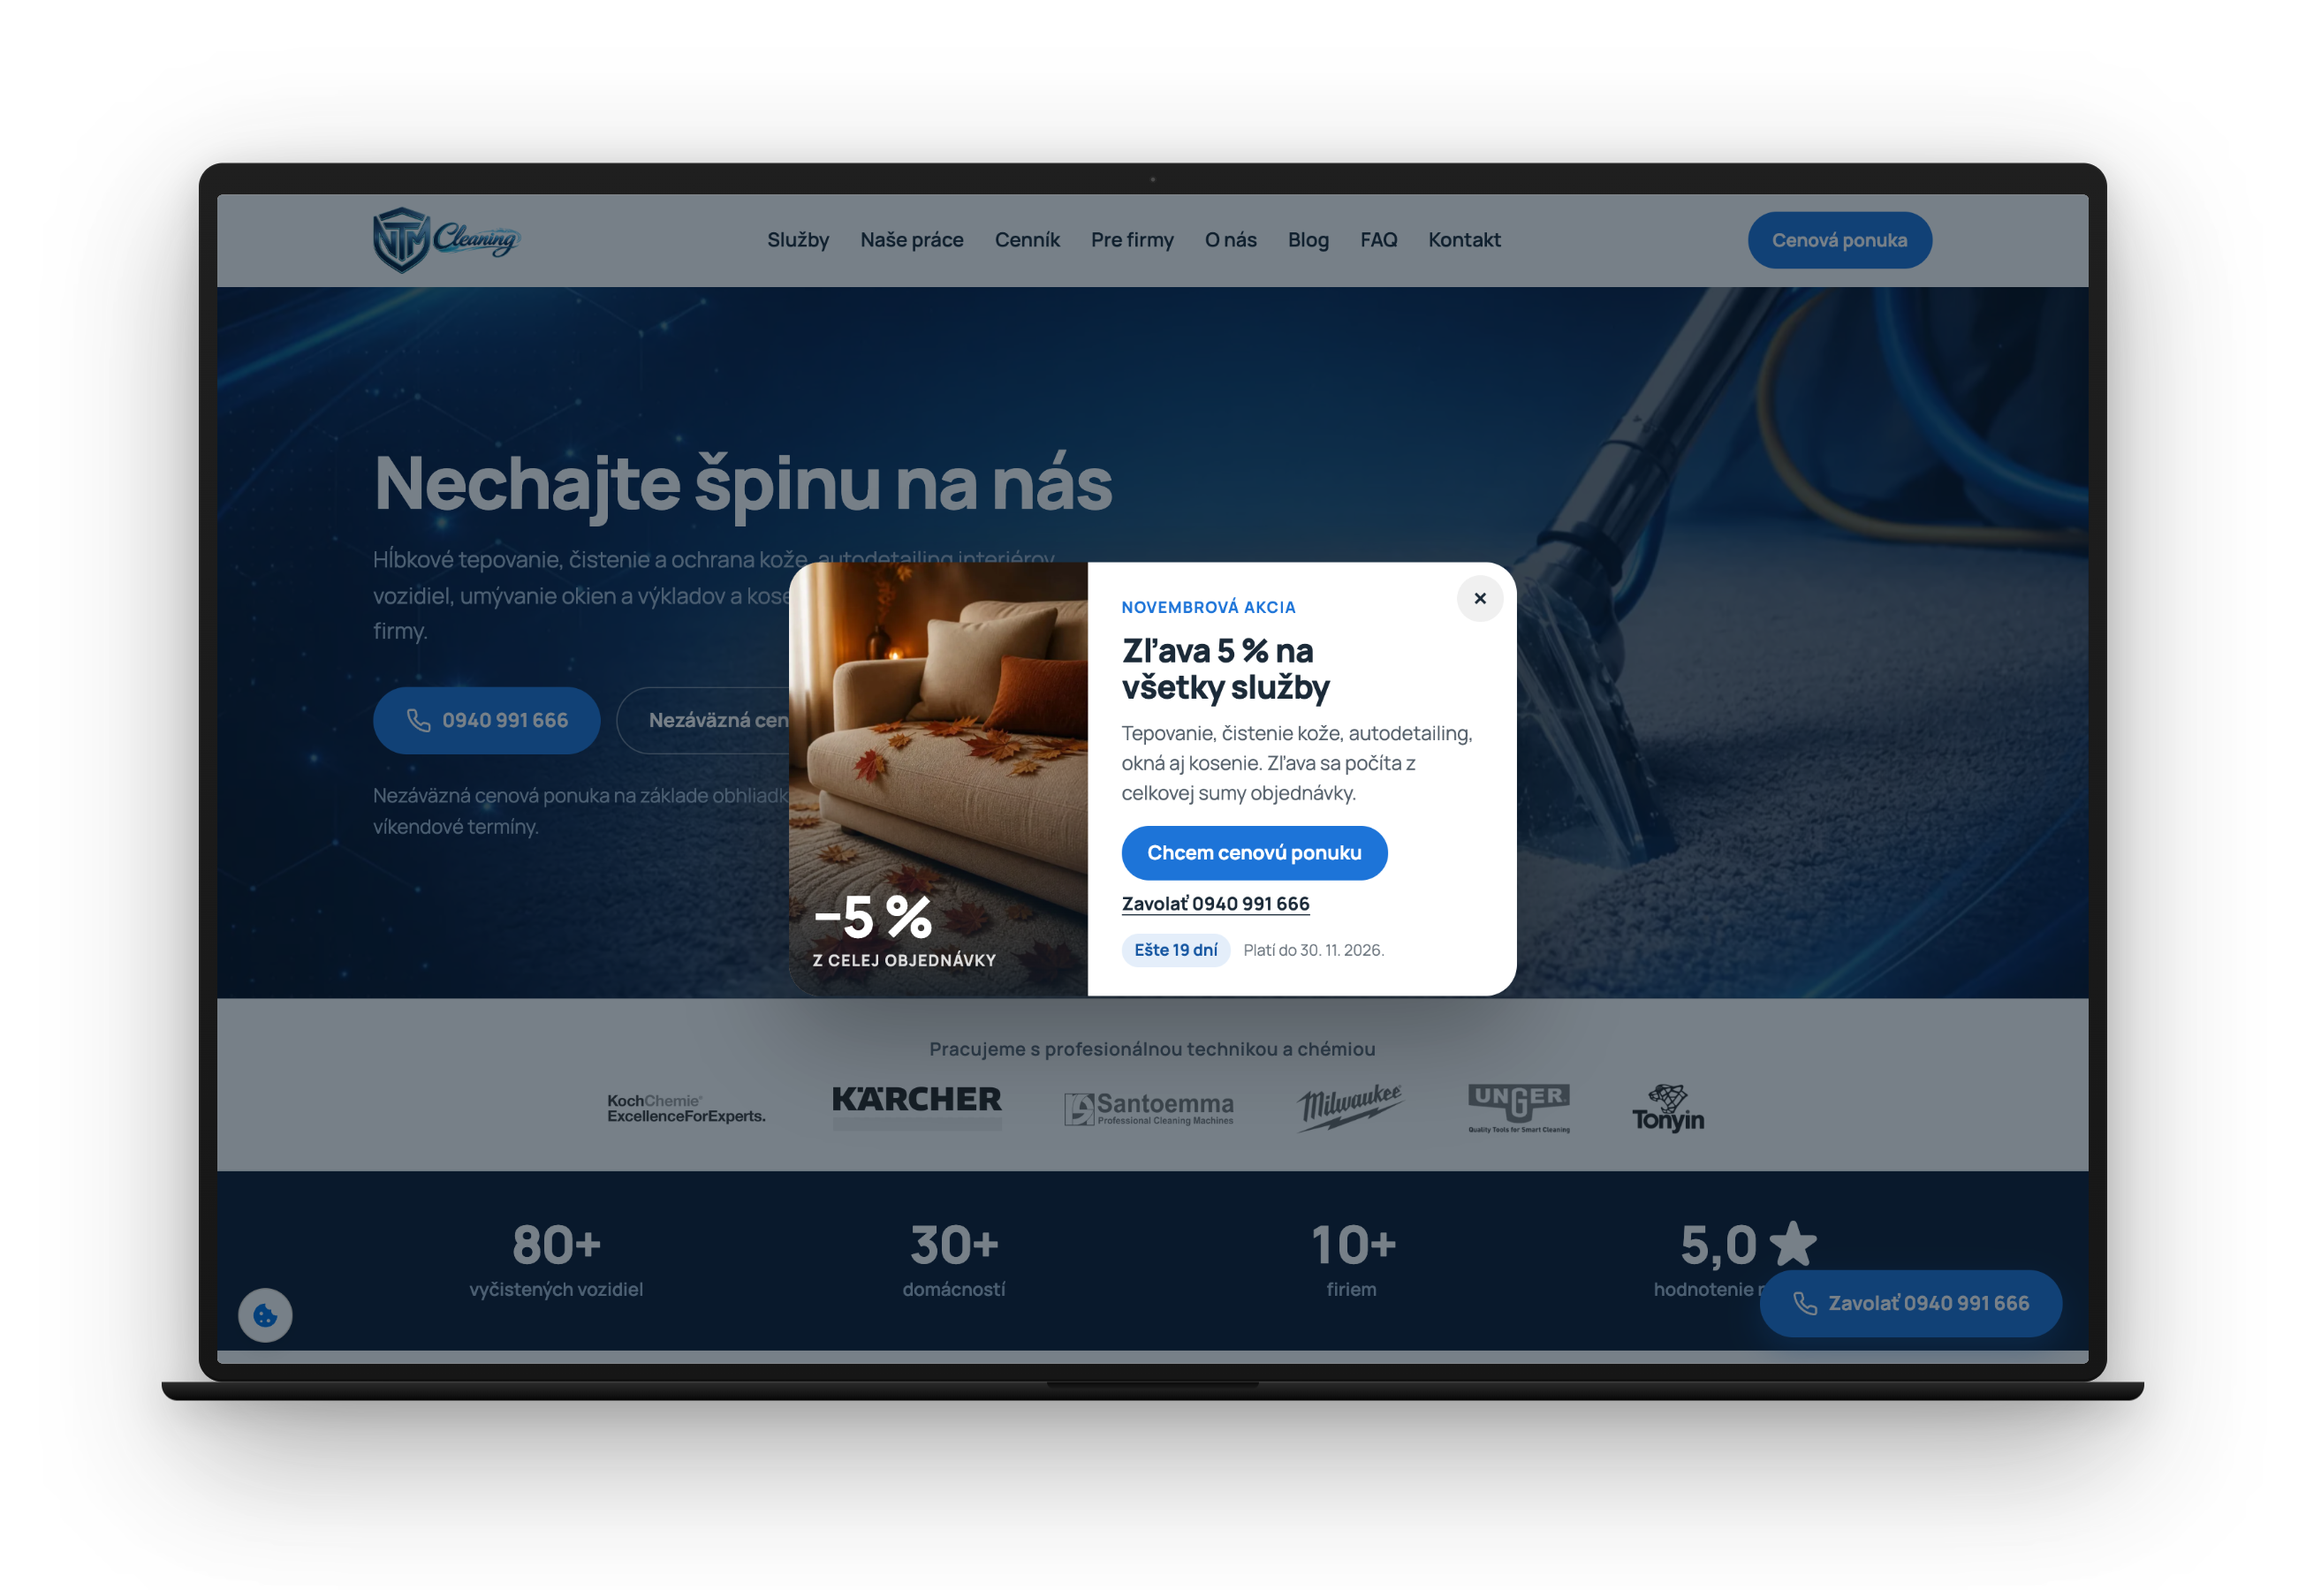
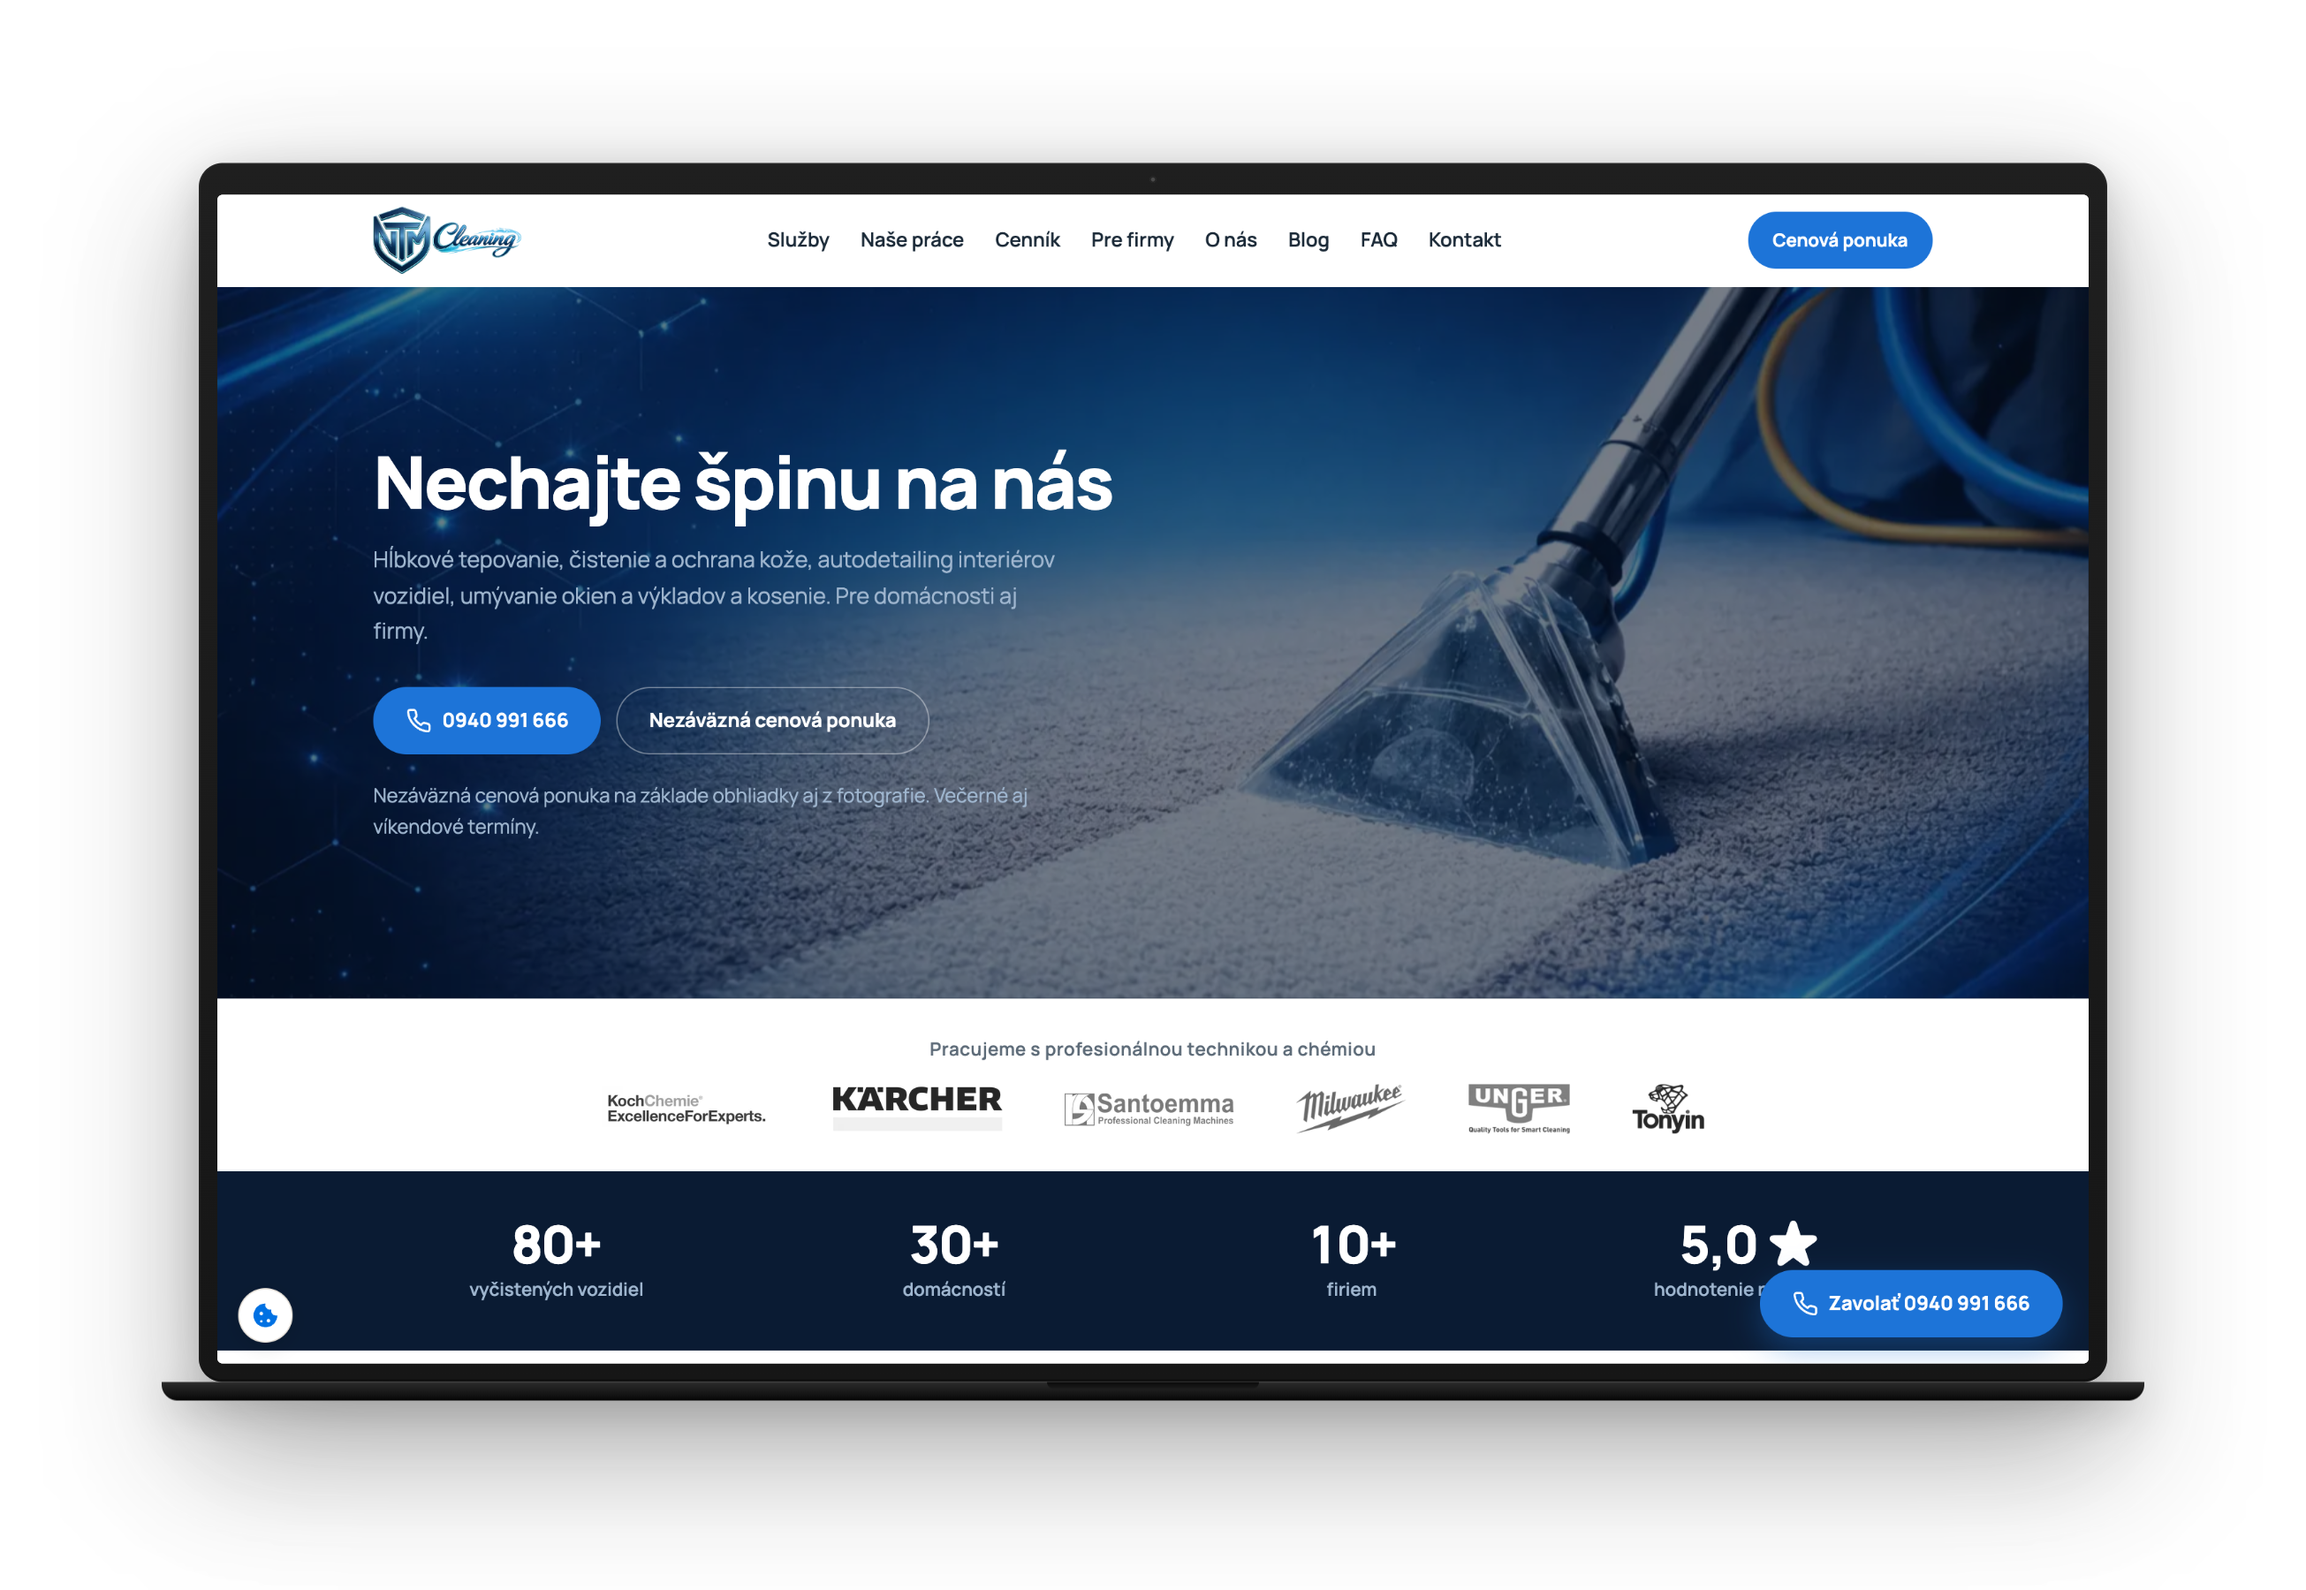
NTM Cleaning: nový text, čisté zábery a radenie projektov podľa roka

diff --git a/src/utils/sortProjects.test.ts b/src/utils/sortProjects.test.ts
@@ -1,0 +1,13 @@
+import { describe, it, expect } from 'vitest';
+import { compareProjects } from './sortProjects';
+
+const p = (year: string, order: number) => ({ data: { year, order } });
+
+describe('compareProjects', () => {
+  it('radí najnovší rok prvý', () => {
+    expect([p('2024', 1), p('2026', 9), p('2025', 3)].sort(compareProjects).map((x) => x.data.year)).toEqual(['2026', '2025', '2024']);
+  });
+  it('v rámci roka radí podľa order', () => {
+    expect([p('2026', 6), p('2026', 0), p('2026', 2)].sort(compareProjects).map((x) => x.data.order)).toEqual([0, 2, 6]);
+  });
+});

diff --git a/src/utils/sortProjects.ts b/src/utils/sortProjects.ts
@@ -1,0 +1,13 @@
+/**
+ * Poradie projektov v zoznamoch a pri „ďalší projekt“: najnovší rok prvý,
+ * v rámci roka podľa `order` (ručné poradie). Rok sa berie z `year`.
+ */
+export function compareProjects(
+  a: { data: { year: string; order: number } },
+  b: { data: { year: string; order: number } },
+): number {
+  const ya = parseInt(a.data.year, 10) || 0;
+  const yb = parseInt(b.data.year, 10) || 0;
+  if (ya !== yb) return yb - ya;
+  return a.data.order - b.data.order;
+}

diff --git a/src/content/projects/en/ntm-cleaning.md b/src/content/projects/en/ntm-cleaning.md
@@ -3,7 +3,7 @@ name: "ntmcleaning.sk"
 kind: "Custom website · WordPress"
 year: "2026"
 role: "WordPress Developer"
-duration: "2 weeks"
+duration: "1 week"
 client: "NTM Cleaning"
 url: "ntmcleaning.sk"
 accent: accent2
@@ -26,17 +26,34 @@ stack:
   - "GA4"
 heroCaption: "homepage · phone and quote request within reach"
 mobileCaption: "homepage on mobile"
-secondaryCaption: "services, pricing and references on one page"
+secondaryCaption: "old and new website: before and after"
 ---
+
+### Starting point
 
 NTM Cleaning does deep cleaning of upholstery and carpets, leather care and interior car detailing at the customer's location across four regions of western Slovakia. The old website ran on a ready-made theme with the Elementor page builder, and on mobile its main content appeared after more than eleven seconds.
 
-The new site is built on a custom WordPress theme without a page builder. Services, pricing, projects, counters, FAQ and contact sit on one page in a logical order. Subpages that only repeated the same text were dropped and the old URLs redirected, so nobody lands on a 404. The phone number and the free quote request are always within reach, and the form is protected by Cloudflare Turnstile. Business data for Google, a sitemap, Search Console and an llms.txt file were set up from day one; a submitted form is tracked in GA4.
+### What was done
 
-I measured both versions with Google PageSpeed Insights on 12 November 2026. The old site is no longer public, so I ran it from a backup on a temporary address with its original database, no content changes and indexing disabled, and measured it three times (median shown; one outlier of 29.8 s was left out of the comparison). On mobile, performance rose from 60 to 99, main content from 11.4 to 1.7 s and layout shift from 0.132 to 0. On desktop the score is 100 versus 72. Accessibility rose from 85 to 100, and the new site also scores 100 for SEO and best practices. These are lab numbers; data from real visitors will come from Search Console.
+- A custom WordPress theme without a page builder.
+- Services, pricing, projects, counters, FAQ and contact on one page in a logical order; subpages that only repeated text were dropped and the old URLs redirected.
+- Phone number and free quote request always within reach; the form is protected by Cloudflare Turnstile and each submission is tracked in GA4.
+- Business data for Google, a sitemap, Search Console and an llms.txt file set up from day one.
+- A complete set of site icons: ICO, PNG in three sizes, apple-touch-icon and a web manifest.
 
-The post-launch check showed that the favicon existed only as WebP (iOS does not use it as an icon) and the manifest was missing. I added all icon types: ICO, PNG in three sizes, apple-touch-icon and site.webmanifest.
+### Result
 
-"My website has been rebuilt from the ground up: clear and modern. I am thrilled with Filip's skill, speed, patience and above all his humanity." — Nikolas Kollár, NTM Cleaning (Google review)
+Comparison in Google PageSpeed Insights, median of three runs per site:
 
-<!-- Add 30- and 90-day results (7 Dec 2026, 3 Feb 2027): form and phone enquiries, Search Console impressions and clicks. -->
+- mobile performance: 60 → 99
+- largest contentful paint on mobile: 11.4 s → 1.7 s
+- layout shift (CLS) on mobile: 0.132 → 0
+- desktop performance: 72 → 100
+- accessibility: 85 → 100
+- SEO and best practices of the new site: 100
+
+These are lab numbers; I will add data from real visitors once Search Console has collected it.
+
+### What the client says
+
+“My website has been rebuilt from the ground up: clear and modern. I am thrilled with Filip’s skill, speed, patience and above all his humanity.” — Nikolas Kollár, NTM Cleaning (Google review)

diff --git a/src/content/projects/sk/ntm-cleaning.md b/src/content/projects/sk/ntm-cleaning.md
@@ -3,7 +3,7 @@ name: "ntmcleaning.sk"
 kind: "Nový web na mieru · WordPress"
 year: "2026"
 role: "WordPress Developer"
-duration: "2 týždne"
+duration: "1 týždeň"
 client: "NTM Cleaning"
 url: "ntmcleaning.sk"
 accent: accent2
@@ -26,17 +26,34 @@ stack:
   - "GA4"
 heroCaption: "homepage · telefón a cenová ponuka na dosah"
 mobileCaption: "úvod na mobile"
-secondaryCaption: "služby, cenník a referencie na jednej stránke"
+secondaryCaption: "starý a nový web: pred a po"
 ---
+
+### Východisko
 
 NTM Cleaning robí hĺbkové tepovanie sedačiek a kobercov, čistenie kože a autodetailing interiéru priamo u zákazníka v Trnavskom, Bratislavskom, Trenčianskom a Nitrianskom kraji. Starý web bežal na hotovej téme s page builderom Elementor a na mobile sa hlavný obsah zobrazil po vyše jedenástich sekundách.
 
-Nový web je postavený na vlastnej WordPress téme bez buildera. Služby, cenník, realizácie, počítadlá, časté otázky a kontakt sú na jednej stránke v logickom poradí. Podstránky služieb, ktoré len opakovali ten istý text, odpadli a staré adresy sa presmerovali, aby nikto nenarazil na chybu 404. Telefón a nezáväzná cenová ponuka sú stále na dosah, formulár chráni Cloudflare Turnstile. Údaje o firme pre Google, sitemap, Search Console a súbor llms.txt boli nastavené od prvého dňa; odoslaný formulár sa meria v GA4.
+### Čo sa urobilo
 
-Obe verzie som 12. 11. 2026 meral v Google PageSpeed Insights. Starý web už verejne nebeží, preto som ho spustil zo zálohy na dočasnej adrese s pôvodnou databázou, bez zásahov do obsahu a s vypnutým indexovaním, a meral som ho trikrát (uvádzam medián; jeden výkyv na 29,8 s som do porovnania nezahrnul). Na mobile sa výkon zlepšil zo 60 na 99 bodov, hlavný obsah z 11,4 na 1,7 s a poskakovanie obsahu z 0,132 na 0. Na desktope vyšlo 100 bodov oproti 72. Dostupnosť stúpla zo 85 na 100 a nový web má 100 bodov aj v SEO a osvedčených postupoch. Sú to laboratórne čísla; dáta od skutočných návštevníkov prídu zo Search Console.
+- Vlastná WordPress téma bez page buildera.
+- Služby, cenník, realizácie, počítadlá, časté otázky a kontakt na jednej stránke v logickom poradí; podstránky, ktoré len opakovali text, odpadli a staré adresy sa presmerovali.
+- Telefón a nezáväzná cenová ponuka stále na dosah; formulár chráni Cloudflare Turnstile a jeho odoslanie sa meria v GA4.
+- Údaje o firme pre Google, sitemap, Search Console a súbor llms.txt nastavené od prvého dňa.
+- Kompletná sada ikon webu: ICO, PNG v troch veľkostiach, apple-touch-icon a webmanifest.
 
-Pri kontrole po spustení sa ukázalo, že favicon existoval len ako WebP (iOS ho ako ikonu nepoužije) a chýbal manifest. Doplnil som všetky typy ikon: ICO, PNG v troch veľkostiach, apple-touch-icon a site.webmanifest.
+### Výsledok
+
+Porovnanie v Google PageSpeed Insights, medián z troch meraní každého webu:
+
+- výkon na mobile: 60 → 99
+- hlavný obsah (LCP) na mobile: 11,4 s → 1,7 s
+- poskakovanie obsahu (CLS) na mobile: 0,132 → 0
+- výkon na desktope: 72 → 100
+- dostupnosť: 85 → 100
+- SEO a osvedčené postupy nového webu: 100
+
+Sú to laboratórne čísla; dáta od skutočných návštevníkov doplním, keď ich nazbiera Search Console.
+
+### Čo hovorí klient
 
 „Môj web je od základov prekopaný, prehľadný a moderný. Som nadšený z Filipovej šikovnosti, rýchlosti, trpezlivosti a hlavne ľudskosti.“ — Nikolas Kollár, NTM Cleaning (recenzia na Google)
-
-<!-- Výsledky doplniť po 30 a 90 dňoch (7. 12. 2026, 3. 2. 2027): dopyty z formulára a z telefónu, zobrazenia a kliky zo Search Console. -->
